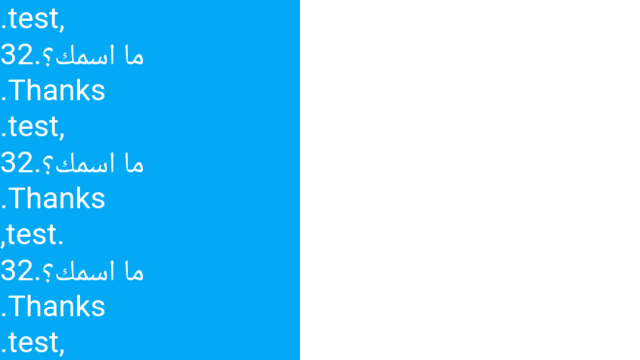
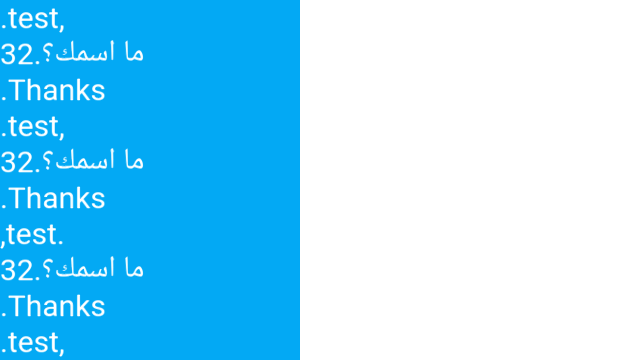
Updated layout tests to handle UI noto fonts
The layout tests have been updated to reflect the fact that Noto
fonts have been switched to using their UI versions. While the
appearance of the glyphs is the same between the two versions, they
have different ascents and descents and the glyphs appear in different
vertical positions on lines.

Changed region(s): [[0.0625, 0.7028, 0.2188, 0.7944], [0.0625, 0.3972, 0.2188, 0.4889], [0.0625, 0.1222, 0.25, 0.1833]]

diff --git a/cobalt/layout_tests/testdata/css-2-1/10-8-1-inline-box-with-normal-line-height-should-combine-all-used-fonts-in-font-metrics.html b/cobalt/layout_tests/testdata/css-2-1/10-8-1-inline-box-with-normal-line-height-should-combine-all-used-fonts-in-font-metrics.html
@@ -11,7 +11,7 @@
   <meta charset="utf-8">
   <style>
     body {
-      font-family: Roboto, Noto Naskh Arabic;
+      font-family: Roboto, Noto Naskh Arabic UI;
       font-size: 30px;
     }
     div {
@@ -19,7 +19,7 @@
       border: 1px solid #000000;
     }
     .arabic-font {
-      font-family: Noto Naskh Arabic, Roboto;
+      font-family: Noto Naskh Arabic UI, Roboto;
     }
   </style>
 </head>

diff --git a/cobalt/layout_tests/testdata/css-2-1/10-8-1-inline-box-with-non-normal-line-height-should-use-first-available-font-for-font-metrics.html b/cobalt/layout_tests/testdata/css-2-1/10-8-1-inline-box-with-non-normal-line-height-should-use-first-available-font-for-font-metrics.html
@@ -10,7 +10,7 @@
   <meta charset="utf-8">
   <style>
     body {
-      font-family: Roboto, Noto Naskh Arabic;
+      font-family: Roboto, Noto Naskh Arabic UI;
       font-size: 30px;
     }
     div {
@@ -19,7 +19,7 @@
       line-height: 1.2em;
     }
     .arabic-font {
-      font-family: Noto Naskh Arabic, Roboto;
+      font-family: Noto Naskh Arabic UI, Roboto;
     }
   </style>
 </head>

diff --git a/cobalt/layout_tests/testdata/bidi/bidi-paragraphs-should-maintain-proper-ordering-when-split-across-multiple-lines.html b/cobalt/layout_tests/testdata/bidi/bidi-paragraphs-should-maintain-proper-ordering-when-split-across-multiple-lines.html
@@ -12,7 +12,7 @@
     body {
       margin: 0px;
       color: #fff;
-      font-family: Roboto, Noto Naskh Arabic;
+      font-family: Roboto, Noto Naskh Arabic UI;
       font-size: 20px;
     }
     .containing-block {

diff --git a/cobalt/layout_tests/testdata/bidi/directional-stack-should-be-restored-following-nested-paragraph.html b/cobalt/layout_tests/testdata/bidi/directional-stack-should-be-restored-following-nested-paragraph.html
@@ -13,7 +13,7 @@
   <style>
     body {
       margin: 0px;
-      font-family: Roboto, Noto Naskh Arabic;
+      font-family: Roboto, Noto Naskh Arabic UI;
       font-size: 30px;
       color: #fff;
     }

diff --git a/cobalt/layout_tests/testdata/bidi/inline-blocks-should-have-a-neutral-direction-within-containing-paragraph-and-open-nested-paragraph.html b/cobalt/layout_tests/testdata/bidi/inline-blocks-should-have-a-neutral-direction-within-containing-paragraph-and-open-nested-paragraph.html
@@ -12,7 +12,7 @@
   <style>
     body {
       margin: 0px;
-      font-family: Roboto, Noto Naskh Arabic;
+      font-family: Roboto, Noto Naskh Arabic UI;
       font-size: 30px;
       color: #fff;
     }

diff --git a/cobalt/layout_tests/testdata/bidi/inline-blocks-should-not-impact-directionality-of-containing-block.html b/cobalt/layout_tests/testdata/bidi/inline-blocks-should-not-impact-directionality-of-containing-block.html
@@ -12,7 +12,7 @@
   <style>
     body {
       margin: 0px;
-      font-family: Roboto, Noto Naskh Arabic;
+      font-family: Roboto, Noto Naskh Arabic UI;
       font-size: 30px;
       color: #fff;
     }

diff --git a/cobalt/layout_tests/testdata/bidi/inline-container-blocks-should-not-impact-directionality-of-containing-block.html b/cobalt/layout_tests/testdata/bidi/inline-container-blocks-should-not-impact-directionality-of-containing-block.html
@@ -10,7 +10,7 @@
   <style>
     body {
       margin: 0px;
-      font-family: Roboto, Noto Naskh Arabic;
+      font-family: Roboto, Noto Naskh Arabic UI;
       font-size: 30px;
       color: #fff;
     }

diff --git a/cobalt/layout_tests/testdata/bidi/line-boxes-should-use-containing-block-direction-for-inline-base-direction.html b/cobalt/layout_tests/testdata/bidi/line-boxes-should-use-containing-block-direction-for-inline-base-direction.html
@@ -11,7 +11,7 @@
   <style>
     body {
       margin: 0px;
-      font-family: Roboto, Noto Naskh Arabic;
+      font-family: Roboto, Noto Naskh Arabic UI;
       font-size: 20px;
       color: #fff;
     }

diff --git a/cobalt/layout_tests/testdata/bidi/nested-block-boxes-should-close-active-paragraph.html b/cobalt/layout_tests/testdata/bidi/nested-block-boxes-should-close-active-paragraph.html
@@ -10,7 +10,7 @@
   <style>
     body {
       margin: 0px;
-      font-family: Roboto, Noto Naskh Arabic;
+      font-family: Roboto, Noto Naskh Arabic UI;
       font-size: 30px;
       color: #fff;
     }

diff --git a/cobalt/layout_tests/testdata/bidi/nested-block-boxes-should-inherit-directionality-from-containing-block.html b/cobalt/layout_tests/testdata/bidi/nested-block-boxes-should-inherit-directionality-from-containing-block.html
@@ -10,7 +10,7 @@
   <style>
     body {
       margin: 0px;
-      font-family: Roboto, Noto Naskh Arabic;
+      font-family: Roboto, Noto Naskh Arabic UI;
       font-size: 30px;
       color: #fff;
     }

diff --git a/cobalt/layout_tests/testdata/bidi/paragraph-should-maintain-directional-stack-with-nested-inline-container-blocks.html b/cobalt/layout_tests/testdata/bidi/paragraph-should-maintain-directional-stack-with-nested-inline-container-blocks.html
@@ -13,7 +13,7 @@
   <style>
     body {
       margin: 0px;
-      font-family: Roboto, Noto Naskh Arabic;
+      font-family: Roboto, Noto Naskh Arabic UI;
       font-size: 30px;
       color: #fff;
     }

diff --git a/cobalt/layout_tests/testdata/bidi/inline-container-boxes-should-continue-active-paragraph.html b/cobalt/layout_tests/testdata/bidi/inline-container-boxes-should-continue-active-paragraph.html
@@ -5,7 +5,7 @@
   <style>
     body {
       margin: 0px;
-      font-family: Roboto, Noto Naskh Arabic;
+      font-family: Roboto, Noto Naskh Arabic UI;
       font-size: 30px;
       color: #fff;
     }
